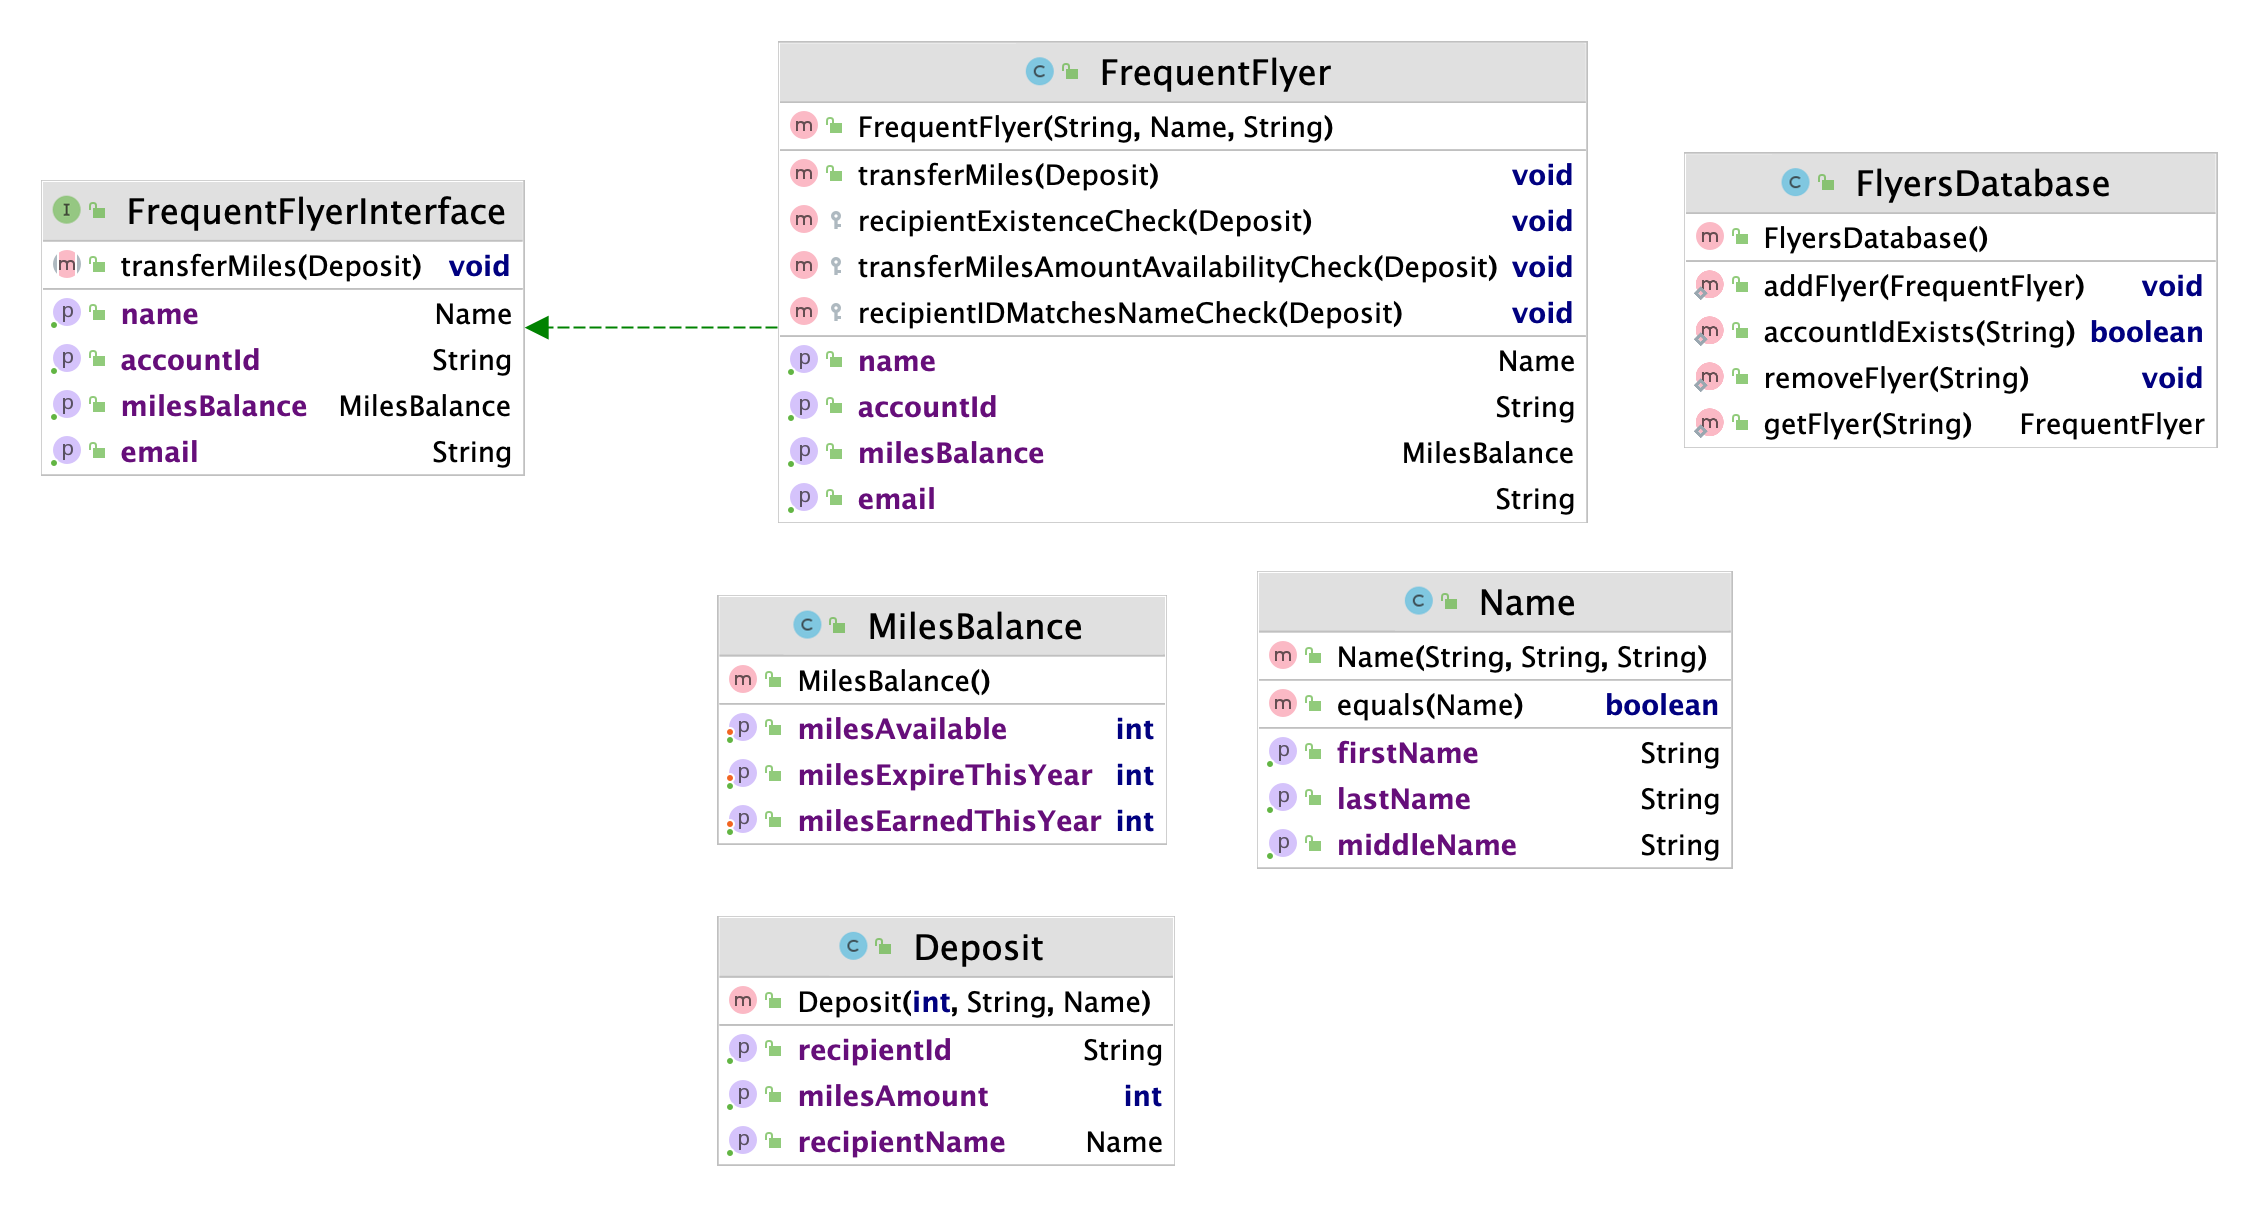
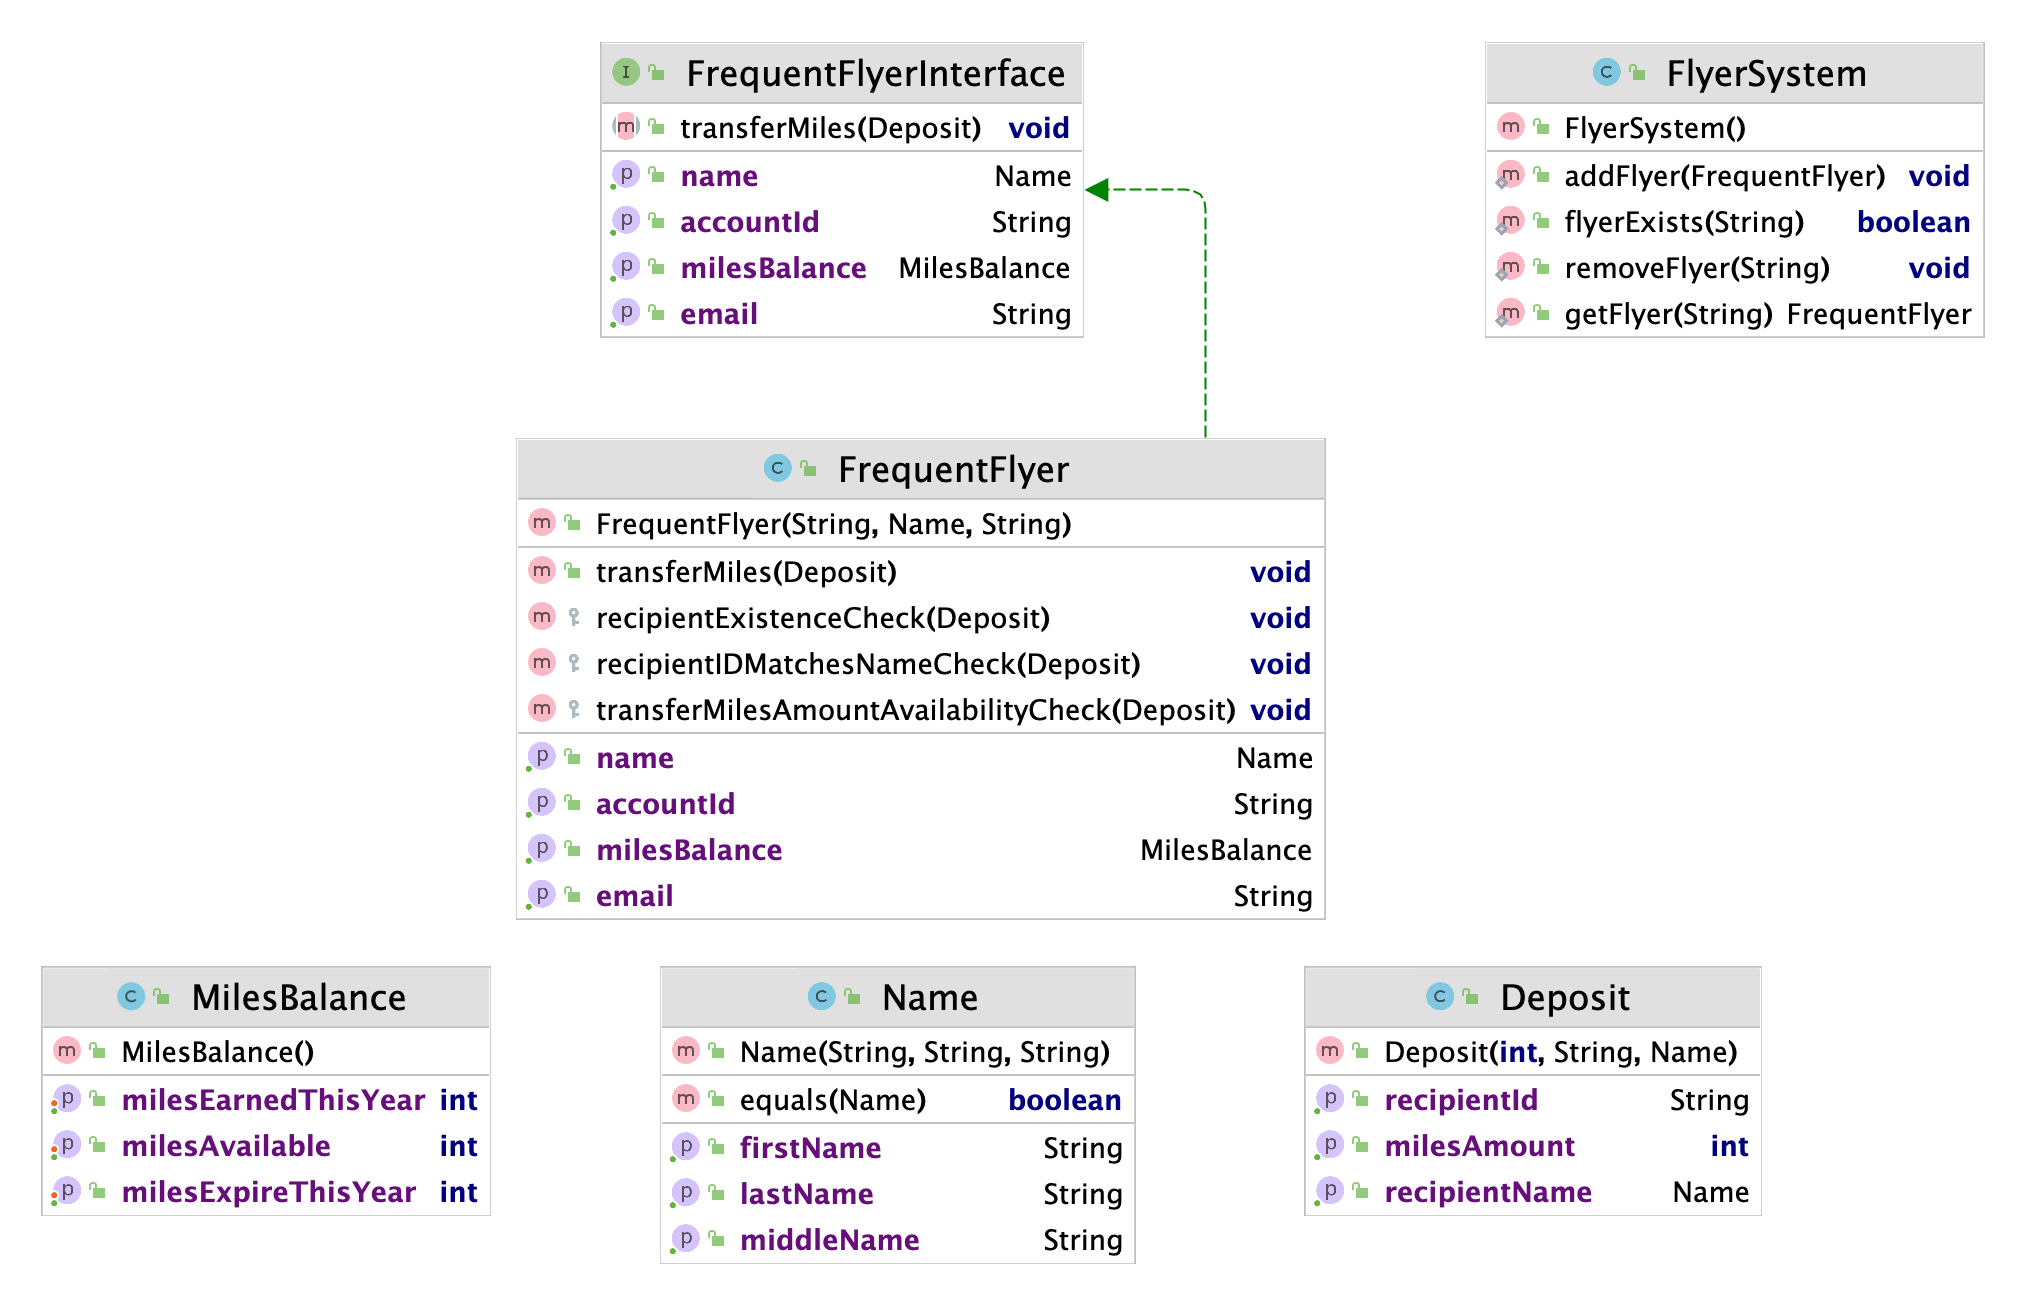
update problem 1 program

Changed region(s): [[0.0, 0.0307, 0.9951, 0.9204], [0.311, 0.7363, 0.5597, 0.9818], [0.0, 0.7363, 0.2488, 0.9204]]

diff --git a/assignment1/src/main/java/problem1/FrequentFlyer.java b/assignment1/src/main/java/problem1/FrequentFlyer.java
@@ -1,6 +1,5 @@
 package problem1;
 
-import java.rmi.NoSuchObjectException;
 import java.util.NoSuchElementException;
 
 public class FrequentFlyer implements FrequentFlyerInterface {
@@ -50,7 +49,7 @@ public class FrequentFlyer implements FrequentFlyerInterface {
 
     // get the deposit info (miles amount, recipient)
     int depositMilesAmount = deposit.getMilesAmount();
-    FrequentFlyer recipient = FlyersDatabase.getFlyer(deposit.getRecipientId());
+    FrequentFlyer recipient = FlyerSystem.getFlyer(deposit.getRecipientId());
     // add miles to the balance of the recipient
     recipient.milesBalance.setMilesAvailable(
         recipient.getMilesBalance().getMilesAvailable() + depositMilesAmount);
@@ -66,7 +65,7 @@ public class FrequentFlyer implements FrequentFlyerInterface {
   }
 
   protected void recipientExistenceCheck(Deposit deposit) {
-    if (!FlyersDatabase.accountIdExists(deposit.getRecipientId())) {
+    if (!FlyerSystem.flyerExists(deposit.getRecipientId())) {
       throw new NoSuchElementException("Recipient doesn't exist!");
     }
 
@@ -77,7 +76,7 @@ public class FrequentFlyer implements FrequentFlyerInterface {
     String recipientId = deposit.getRecipientId();
     Name recipientName = deposit.getRecipientName();
     // fetch the flyer from the system by recipient ID
-    FrequentFlyer flyer = FlyersDatabase.getFlyer(recipientId);
+    FrequentFlyer flyer = FlyerSystem.getFlyer(recipientId);
     if (!recipientName.equals(flyer.getName())) {
       throw new SecurityException("Recipient's ID doesn't match recipient's name in the system!");
     }

diff --git a/assignment1/src/main/java/problem1/FlyerSystem.java b/assignment1/src/main/java/problem1/FlyerSystem.java
@@ -3,26 +3,27 @@ package problem1;
 import java.util.HashMap;
 import java.util.NoSuchElementException;
 
-public class FlyersDatabase {
+public class FlyerSystem {
 
   // Hash map to store <account ID, frequent flyer>
   private static HashMap<String, FrequentFlyer> flyers = new HashMap<String, FrequentFlyer>();
 
+  // check the flyer exists by the accountId
+  public static boolean flyerExists(String accountId) {
+    return flyers.containsKey(accountId);
+  }
 
   // add new registered flyer
   public static void addFlyer(FrequentFlyer flyer) {
     String flyerId = flyer.getAccountId();
 
     // check it is not in the flyers database
-    if (!accountIdExists(flyerId)) {
+    if (!flyerExists(flyerId)) {
       flyers.put(flyerId, flyer);
     } else {
       throw new NoSuchElementException("Account ID " + flyerId + " already exists!");
     }
   }
-
-  // check the flyer exists by the accountId
-  public static boolean accountIdExists(String accountId) { return flyers.containsKey(accountId); }
 
   // get the existing flyer
   public static FrequentFlyer getFlyer(String accountId) {

diff --git a/assignment1/src/main/java/problem1/Name.java b/assignment1/src/main/java/problem1/Name.java
@@ -13,15 +13,15 @@ public class Name {
   }
 
   public String getFirstName() {
-    return firstName;
+    return this.firstName;
   }
 
   public String getMiddleName() {
-    return middleName;
+    return this.middleName;
   }
 
   public String getLastName() {
-    return lastName;
+    return this.lastName;
   }
 
   public boolean equals(Name nameCompare) {
@@ -32,9 +32,10 @@ public class Name {
     if (nameCompare == null) {
       return false;
     }
-    String firstNameCompare = nameCompare.firstName;
-    String middleNameCompare = nameCompare.middleName;
-    String lastNameCompare = nameCompare.lastName;
+
+    String firstNameCompare = nameCompare.getFirstName();
+    String middleNameCompare = nameCompare.getMiddleName();
+    String lastNameCompare = nameCompare.getLastName();
 
     return firstNameCompare.equals(this.firstName)
         && middleNameCompare.equals(this.middleName)

diff --git a/assignment1/src/main/java/problem2/VehicleSystem.java b/assignment1/src/main/java/problem2/VehicleSystem.java
@@ -1,11 +1,13 @@
 package problem2;
 
+import java.util.HashMap;
 import java.util.Random;
 
-public class IdHelper {
+public class VehicleDatabase {
 
+  private static HashMap<String, Vehicle> vehicles = new HashMap<String, Vehicle>();
   private static String generateId() {
-    int length = 16;
+    final int length = 10;
     Random random = new Random();
 
     String id = random.ints(48, 123).limit(length)
@@ -14,13 +16,9 @@ public class IdHelper {
     return id;
   }
 
-  private static boolean vehicleIdExists(String id) {
-    return Vehicle.vehicles.contains(id);
-  }
-
   public static String newVehicleId() {
     String id = "0123456789abcdef"; // 16-char long
-    while (vehicleIdExists(id)) {
+    while (vehicles.containsKey(id)) {
       id = generateId();
     }
     return id;

diff --git a/assignment1/src/main/java/problem2/VehicleInterface.java b/assignment1/src/main/java/problem2/VehicleInterface.java
@@ -1,11 +1,16 @@
 package problem2;
 
-import java.util.HashSet;
+import java.util.HashMap;
 
 public interface Vehicle {
-  HashSet<String> vehicles = new HashSet<String>();
+
+  HashMap<String, Vehicle> vehicles = new HashMap<String, Vehicle>();
+
   String getId();
+
   Integer getManufactureYear();
+
   MakeModel getMakeModel();
+
   Double getMSRPrice(); // MSRP: Manufacturer Suggested Retail Price
 }
